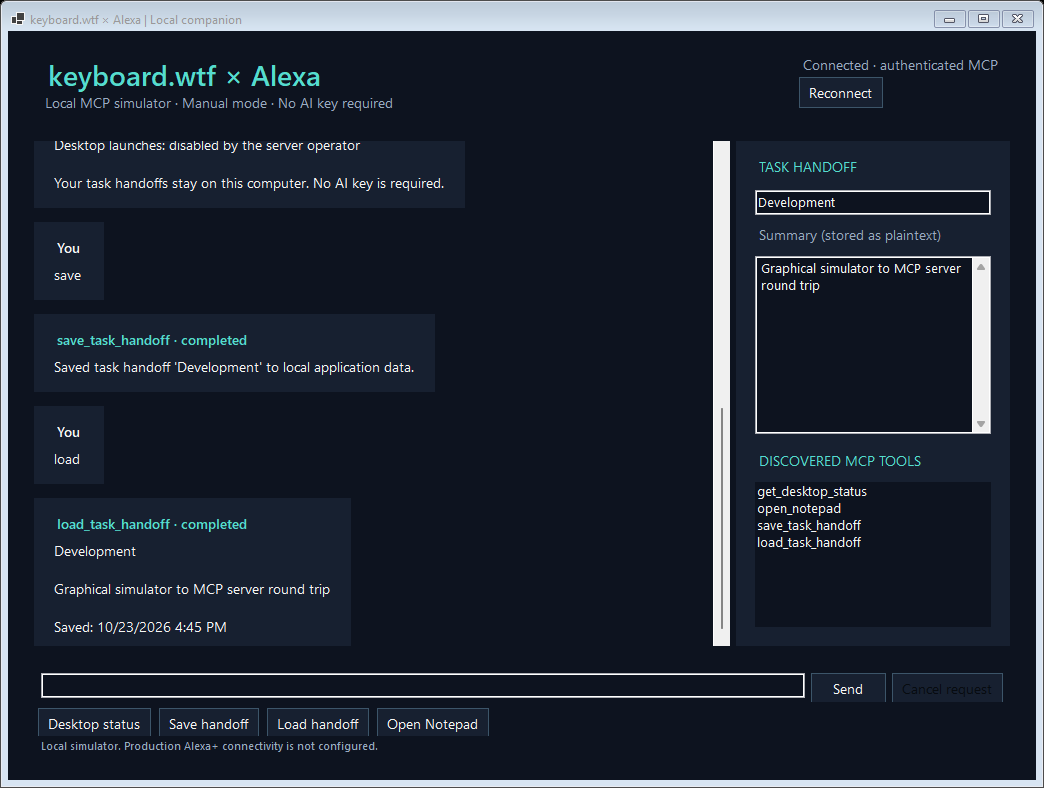
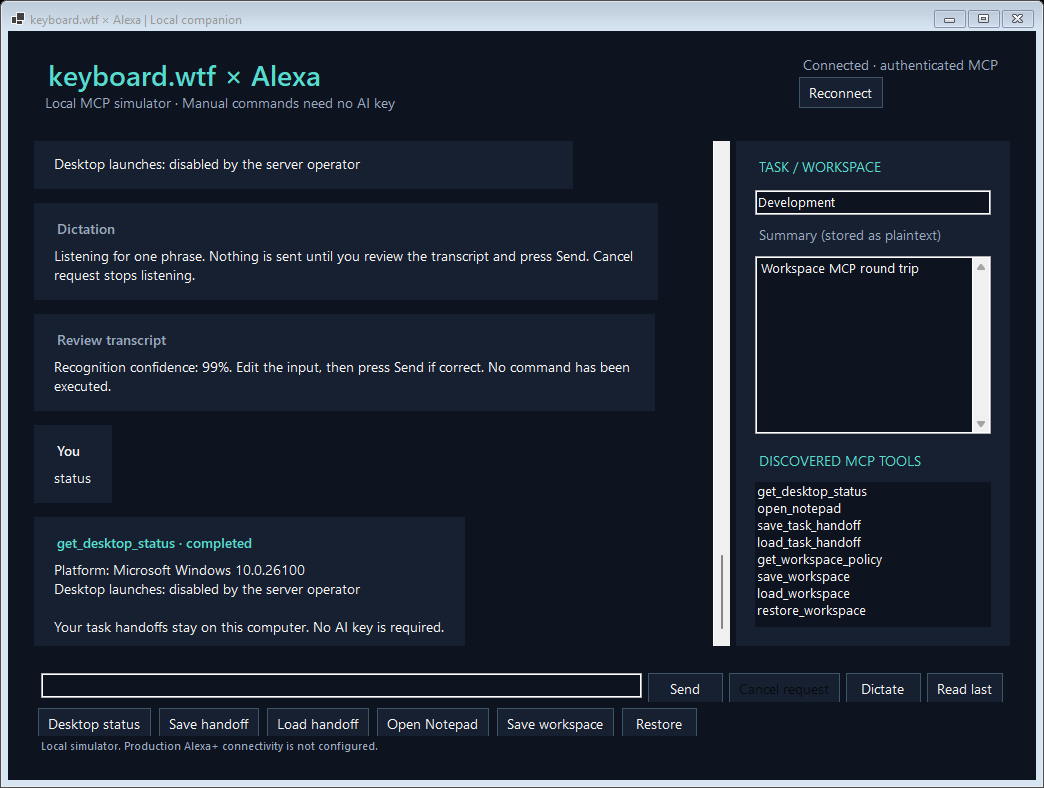
Record native MCP evidence, current renders and remote Alexa integration boundary

diff --git a/docs/PROGRESS.md b/docs/PROGRESS.md
@@ -2,45 +2,39 @@
 
 ## Current checkpoint — 2026-10-24 (Asia/Calcutta)
 
-- Work is integrated into `codex/alexa-plus-completion` by PR #3, merge commit `15122e6c545b6de8c7e0ec514e16c6c6f6ec6992`.
-- Functional head `6d2f6089fa030d905210af287fc7ea0a24e5427a` passed Windows CI [39991652332](https://github.com/UnknownGod2011/Alexa-keyboard.wtf/actions/runs/39991652332): all builds, raw MCP 2025-11-25, SDK calls, source/published graphical controls, compact layout, **52** regressions, strict binding under conflicting host configuration, script parsing, extracted-package launcher, foreign-listener refusal, owner-aware shutdown and preview packaging.
-- Local preview works without an AI key. The genuine control renders were visually inspected. A prior preview archive was inspected: required launch/runtime/notice files were present, dependency metadata was non-empty, and no credential files were found.
-- `main` remains unchanged and PR #2 stays draft. Production keyboard.wtf was read only. This is not a final release or verified Alexa cloud integration.
-- A replacement task was created in this Work conversation every **305 minutes (5 hours 5 minutes)**; the previous normal-chat task is paused. The prompt requests at least 60 minutes of substantive engineering when execution budgets permit; wall-clock minimums are not a platform guarantee.
-- **Workspace restoration integrated:** PR #4 merged to development as `f0f6c5ab3a7abeab510dbc27a3bd25e37d05a4ad`. Functional `487f9a12aea23e839ad8134a87aeaf0e4bc2b7c4` passed [40014939575](https://github.com/UnknownGod2011/Alexa-keyboard.wtf/actions/runs/40014939575): **86** regressions, source/published raw+SDK MCP, GUI save dialog/load/denied restore, compact bounds and launcher/package validation. Actual dialog and compact renders were inspected. Root and folder/Notepad action scope are documented.
-- **Optional AI integrated:** PR #5 merged to development as `60be1c33f583d937cde2291ce2827f8ae7b5c5f9`. Functional `4f1f166aeb2489ae3e5a188785bcceaf085e748f` passed [40016028105](https://github.com/UnknownGod2011/Alexa-keyboard.wtf/actions/runs/40016028105), including **114** regressions/HTTP contracts, source/published MCP+GUI and bridge-independent chat-only console. Only explicit ask prompts/history are sent; AI has no desktop-tool capability. No credential-backed cloud request has been made.
-- **Active implementation:** `codex/optional-windows-voice` adds Dictate/Read last. Transcript review and explicit Send are separate; native audio starts only after a button click. Hosted checks use a recording adapter; real microphone/speaker behavior is unverified. Initial `34750076be2e12f842f3e5794d7fe43d478ea540` awaits CI.
-- **External verification still needed:** real end-user Windows Notepad visibility/consent UX and Windows 10/11 desktop behavior. Hosted graphical control tests do not prove these.
-- Credential-backed AI verification, real Windows voice/desktop validation and actual remote Alexa+ pairing/connectivity remain unfinished. See RELEASE_READINESS.md.
+Target: `UnknownGod2011/Alexa-keyboard.wtf`. Production `UnknownGod2011/keyboard.wtf` is strictly read-only. Do not restart the architecture or force-push.
 
-## Engineering history
+## Implemented and verified
 
-2026-10-23: Initialized an isolated Alexa development branch and committed the initial MCP bridge. The original keyboard.wtf repository remains read-only.
+- Official SDK 2.3.0 Streamable HTTP bridge plus independent raw MCP 2025-11-25 checks.
+- Per-launch local bearer, lease/rotation, fixed loopback binding despite inherited host configuration, Host/Origin checks and owned-process shutdown.
+- Operator opt-in plus fresh, expiring, single-request local-console approval. MCP arguments cannot approve actions. Denial, replay, cancellation and closed-input tests pass.
+- Validated/atomic handoffs and versioned approved-root workspaces. Traversal, junctions/network roots, changed roots, concurrent edits during approval and partial/cancelled results are covered.
+- Shared SDK client, console and Windows Forms clients; actual source/published GUI handlers, workspace dialog and compact bounds verified.
+- Optional explicitly configured AI text: bounded ask/history, reset, deadlines, no retries/redirects, redacted errors and no desktop-tool capability. Fake HTTP tests pass; real account use remains unverified.
+- Optional Dictate/Read last controls: no audio starts on launch, transcripts require review and Send, cancellation/errors preserve manual operation. Hosted voice UI uses a recording adapter. Installed native speech generated valid WAV without speaker playback.
+- Preview package and extracted launcher tested from a path with spaces; foreign-listener refusal, owned cleanup, script parsing and dependency notices verified.
 
-2026-10-23: Added an independent .NET no-key console simulator using the official MCP SDK, plus a Windows CI integration test that starts the actual bridge and exercises it through Streamable HTTP.
+## Commits and evidence
 
-2026-10-23: First integration run failed because the expected PascalCase tool names did not match the SDK's snake_case discovery. Corrected the client calls, pinned tool names, and verified the real MCP smoke test passed in Windows GitHub Actions run `39977136792` for commit `c9c8a4a`. Confirmed status, save/load, invalid-name rejection, unknown-tool rejection, and Host/Origin checks.
+- PR #3 foundation merged as `15122e6c545b6de8c7e0ec514e16c6c6f6ec6992`.
+- PR #4 workspaces merged as `f0f6c5ab3a7abeab510dbc27a3bd25e37d05a4ad`; CI [40014939575](https://github.com/UnknownGod2011/Alexa-keyboard.wtf/actions/runs/40014939575), 86 checks.
+- PR #5 optional AI merged as `60be1c33f583d937cde2291ce2827f8ae7b5c5f9`; CI [40016028105](https://github.com/UnknownGod2011/Alexa-keyboard.wtf/actions/runs/40016028105), 114 checks.
+- PR #6 voice/native probe merged as `0dc8202c9697f5042805dd182e2240a629f920fc`; CI [40016870841](https://github.com/UnknownGod2011/Alexa-keyboard.wtf/actions/runs/40016870841).
+- Active PR #7 adds the exact flagship command and actual MCP-to-native workspace validation. Functional `f394c08c539c66e66c868a34b23ff2412a552650` passed [40018157021](https://github.com/UnknownGod2011/Alexa-keyboard.wtf/actions/runs/40018157021): **115 checks**, raw/SDK MCP, source/published GUI, scripts, packaging and extracted launcher.
+- Native fixture saved the workspace through MCP, denied one request, supplied a different fresh simulated local-console approval, then observed Explorer displaying the exact approved directory and an owned visible Notepad window. The real approval/tool/launch implementations are used; human console interaction is not simulated as a verified user result.
+- Actual Notepad and form/dialog renders were visually inspected. Downloaded preview audit: 89 files, all required launch/runtime files, 19 dependency entries including System.Speech MIT, no credential files. Current source credential-pattern scan found no matches.
 
-Remaining: authenticated local MCP access, server-enforced side-effect authorization, accurate tool errors, Windows graphical simulator, verified desktop UI interaction, production adapters, and release readiness. Do not claim actual Alexa+ cloud integration.
+## Integration and next work
 
-2026-10-23: Added per-server-start random 256-bit bearer authentication to the loopback MCP endpoint, current-user token discovery for the no-key simulator, a single-instance file lease, and smoke probes for unauthorized MCP GET/POST and invalid tokens. Initial CI found an unsupported Directory.SetUnixFileMode API; corrected to File.SetUnixFileMode. Windows CI run `39985387204` passed both builds and the real SDK protocol smoke, including missing/invalid token rejection. No interactive GUI was tested. Read-only inspection of production JarvisPermissionPolicy and AppResolverService identified reusable permission/tool patterns for future safe adapter work.
+PR #7 documentation/image refresh is being integrated into development. PR #2 is the default-branch integration PR; recheck its current state rather than assuming it is still draft. The tested local development preview is eligible for default-branch integration after its exact head and integration CI pass. This is not a production Alexa+ release or a claim that optional hardware/account verification passed.
 
-2026-10-23: Added server-owned default-deny desktop-launch policy. `open_notepad` now refuses requests unless the server operator opts in with `ALEXA_ALLOW_DESKTOP_ACTIONS=1`; status reports the policy. Windows CI run `39985829707` passed both .NET builds and real MCP smoke tests including a denied Notepad call, authenticated protocol round-trip, Host/Origin checks, and invalid-token rejection. No interactive desktop GUI action was attempted.
+Remaining external evidence: end-user Windows 10/11 consent/high-DPI/device behavior; actual microphone recognition, audible output and cleanup; credential-backed AI use. Use WINDOWS_MANUAL_TEST.md, record concrete observations and preserve unverified states. Actual Alexa+ connectivity is a separate, undeployed capability; requirements/design/blockers are in ALEXA_REMOTE_INTEGRATION.md. Do not provision paid services, change external account permissions or expose the local bridge without authorization.
 
-2026-10-23: Interactive Work session added server-console approval for each Notepad request, headless denial, approval expiry, cancellation before launch, absolute Windows-system executable resolution, explicit MCP tool errors, and extracted validated/atomic handoff storage. Windows CI run 39986017503 passed both builds, the real MCP smoke, and the new regression executable on commit 2603b3a. No visible Windows action was attempted.
+When these are the only remaining blockers, do not invent more features or repeat blocked environment investigations. Inspect new evidence, fix concrete defects and keep the release status honest. Broader production release still requires external verification.
 
-2026-10-23: Reconciled the scheduled worker's operator opt-in policy (preserved before per-action approval) and added a shared authenticated MCP client plus a Windows Forms graphical simulator with live tool discovery, handoff fields, action history, cancellation, and reconnect. Both simulators use real MCP. GUI build and combined policy validation are pending CI at this checkpoint; visual behavior remains unverified.
+## Scheduled continuation
 
-2026-10-23: Windows CI run 39987052287 passed shared-client/graphical builds, the combined operator policy plus per-action approval smoke, and regression checks on a6372f3. Added independent raw HTTP checks for MCP 2025-11-25, schema/lifecycle/concurrency/errors; isolated runtime credentials as well as handoff data; added authenticated graceful shutdown, guarded Windows launcher and framework-dependent preview packaging. These newest lifecycle/package changes await CI. No interactive Windows test is claimed.
+The Work task recurs every **305 minutes (5 hours 5 minutes)** in this conversation; the former normal-chat task is paused. The prompt requests at least 60 minutes of substantive engineering when execution budgets permit. No platform-enforced minimum duration is claimed. Read this file, IMPLEMENTATION_PLAN.md, RELEASE_READINESS.md, latest refs/PRs/CI and active workers before each run. GitHub is the durable source of truth; local folders may disappear.
 
-2026-10-23: Windows CI 39987908464 passed raw MCP 2025-11-25, real SDK calls, lifecycle/authentication checks, 40 regression checks and preview packaging on 3e048c4. Added hosted Windows graphical-control smoke and a real control-render capture for visual inspection; this new UI smoke awaits CI.
-
-2026-10-23: Hosted graphical MCP controls passed in Windows CI 39988366057 on 371cb2f. Inspected the actual control-render image and improved status/handoff presentation, task-name readability and loaded-summary restoration. Added compact-window checks, published-package tests, extracted-folder-with-spaces launcher tests, script parsing and third-party package notices/inventory. New follow-up CI pending.
-
-2026-10-23: Windows CI 39989264504 passed source/published raw protocol, SDK, graphical and compact-layout tests; 40 regressions; PowerShell parsing; extracted-package-with-spaces launcher cleanup; and preview publication on fe94946. Visually inspected both source control renders. Final audit strengthened shutdown ownership matching, added a foreign-listener refusal test, fixed request deadlines while console users type, and bounded graphical cleanup. Follow-up CI pending.
-
-2026-10-23: Windows CI 39990145822 passed owner-process shutdown checks, foreign-listener refusal, source/published GUI and protocol checks, regression checks, and package creation on 43b7a33. Approval-lifecycle review found that an interactive console reaching EOF should immediately deny pending and future actions; fixed it and added direct service checks for fresh/consumed/expired/cancelled challenges, concurrency and EOF. Current follow-up CI pending.
-
-2026-10-23: Windows CI 39990718911 passed the direct approval lifecycle follow-up on b6d850f, including closed-input denial. Final binding review identified that UseUrls alone can be overridden by inherited Kestrel endpoint configuration. Replaced the endpoint loader with explicit loopback listening and added a smoke assertion under conflicting benign URL/Kestrel settings. Awaiting final CI before integration into the development branch.
-
-2026-10-23: Compatibility audit preserved Windows case-insensitive lookup of an existing handoff while retaining stored-record identity validation. Added a Windows regression assertion; final validation pending.
+Detailed chronological evidence is in TEST_RESULTS.md.

diff --git a/docs/RELEASE_READINESS.md b/docs/RELEASE_READINESS.md
@@ -1,35 +1,33 @@
 # Release readiness
 
-This is a development preview, not a verified release.
+Milestone: independently runnable **local Windows MCP development preview**. The core preview has implementation and Windows evidence sufficient for integration into the default branch after the exact integration head passes CI. This is not general-availability certification or production Alexa+ connectivity.
 
 | Criterion | Evidence / state |
 | --- | --- |
-| Production repository untouched | Read-only reference inspection only; all writes target Alexa repository |
-| Real official-SDK MCP initialize/discover/call | Passed Windows CI |
-| No AI key required | Passed protocol smoke |
-| Local authentication | Passed Windows CI |
-| Default-denied launches | Passed scheduled-worker and combined policy CI |
-| Per-action host approval, cancellation, truthful errors | Passed direct approval lifecycle, recording-adapter and headless MCP checks |
-| Combined policy and graphical simulator build | Passed Windows CI 39987052287 |
-| Hosted graphical control events/render | Passed CI 39988366057; captured control render visually inspected |
-| Visible simulator behavior | Interactive end-user desktop still unverified |
-| Actual Notepad window | Unverified; interactive Windows required |
-| Fresh extracted preview package | Passed CI 39989264504, including path with spaces, actual MCP call and cleanup |
-| Optional AI text | Contract/no-key UI tests passed CI 40016028105; credential-backed request unverified |
-| Voice | Explicit Dictate/Read last implementation under validation; actual microphone/speaker behavior unverified |
-| Production Alexa+ connectivity | Not implemented or verified |
-| Fixed endpoint under inherited configuration | Passed CI 39991652332 |
-| Approved saved project workspaces | Passed CI 40014939575; actual Explorer/Notepad windows still unverified |
-| Regression checks | 114 passed in Windows CI 40016028105 |
-| Ready for main / public release | No; remaining gates must be completed |
+| Production repository preserved | Read-only reference inspection; writes target Alexa repository only |
+| Official SDK and Streamable HTTP | SDK 2.3.0; independent raw MCP 2025-11-25 and SDK calls pass |
+| No-key meaningful workflow | Save/restore via actual MCP; native Explorer approved-folder and Notepad windows observed |
+| Local security | Bearer lease/rotation, Host/Origin, fixed binding and owned shutdown pass |
+| Side-effect policy | Operator opt-in, fresh local challenge, denial/replay/expiry/cancel/EOF checks pass |
+| Workspace safety | Root/path/version/identity/atomicity and immutable-consent tests pass |
+| Simulator uses MCP | Source/published GUI and console exercise actual SDK transport |
+| GUI controls and layout | Actual button/dialog handlers and standard/compact bounds pass; real renders inspected |
+| Native Windows action | CI 40018157021 observed exact Explorer directory and owned visible Notepad after MCP restore |
+| Approval evidence scope | Native fixture simulates local console replies using the real approval service; human UX remains unverified |
+| Optional AI | Fake HTTP contracts and no-key recovery pass; externally configured key/model; actual account unverified |
+| Optional speech | Recording-adapter UI tests pass; native synthesis generates WAV; microphone/speaker behavior unverified |
+| Builds and regression checks | 115 checks and all Windows pipeline stages pass on functional f394c08 |
+| Fresh checkout / extracted preview | Windows checkout/restore/build and extracted launcher, including path with spaces, pass |
+| Package/licenses/secrets | Downloaded 89-file preview inspected; 19 package entries, required runtimes/notices and no credential files |
+| Default branch | Pending PR #2 integration and verification; check current GitHub state |
+| Production Alexa+ | Not implemented/deployed/verified; separate researched design and account/hosting blockers |
+| Broad production release | Not claimed; external verification below remains |
 
-Do not infer visible Windows correctness from hosted CI. See WINDOWS_MANUAL_TEST.md.
+## External verification still required
 
-## Remaining work by priority
+- Run WINDOWS_MANUAL_TEST.md on supported end-user Windows 10/11: actual console consent, scaling, restart/cancellation and cleanup.
+- Verify microphone recognition, audible read-aloud and hardware release on cancellation/close. A generated WAV or recording adapter does not prove these.
+- Verify optional AI with the user's own configured account without logging keys. Fake HTTP is not proof of provider availability/account access.
+- If pursuing remote Alexa+, authorize a separate hosting/OAuth/pairing implementation and complete real linking/simulator/device checks. Do not tunnel the current loopback bearer endpoint.
 
-1. Verify real end-user Windows desktop behavior, including Notepad visibility, consent UX, cancellation, restart and shutdown. Hosted control renders are not a substitute.
-2. Verify real workspace folder/Notepad visibility and consent UX. Versioned approved-folder restoration is implemented; it does not restore editor tabs or arbitrary application state.
-3. Complete voice build/control validation and real Windows microphone/speaker checks; verify configured AI with an actual account. Preserve no-key manual operation.
-4. Design and verify actual remote Alexa+ registration, authentication and pairing if external access becomes available. Localhost is not cloud connectivity.
-
-The current deliverable can be integrated into the development branch as a tested local preview. These remaining gates prevent claiming a final release or merging as a finished product into main.
+These states must remain visible in README and reports. Default-branch integration of the tested local preview does not close them or authorize a production-ready claim. Disable the recurring engineering task only when the user's intended acceptance scope is genuinely satisfied or explicitly concluded.

diff --git a/docs/ALEXA_REMOTE_INTEGRATION.md b/docs/ALEXA_REMOTE_INTEGRATION.md
@@ -1,0 +1,43 @@
+# Remote Alexa+ integration boundary
+
+Status: researched design only. No relay, OAuth service, account linking, add-on registration or production Alexa connection has been implemented or deployed. The runnable implementation remains a local MCP companion and simulator.
+
+## Verified external requirements
+
+Reviewed 2026-10-24 (Asia/Calcutta):
+
+- Amazon's [MCP QuickStart](https://developer.amazon.com/docs/alexaplus/add-ons/mcp-toolkit-quickstart) requires Streamable HTTP and a remote server URL. Its current checklist specifies protected-resource/authorization-server metadata, PKCE S256, resource-bound bearer requests and a round-trip query latency below 500 ms. It currently excludes WWW-Authenticate in 401 responses. Registration uses authenticated Alexa developer tooling.
+- [MCP authentication](https://developer.amazon.com/docs/alexaplus/add-ons/mcp-toolkit-authentication) distinguishes service credentials for initialization/discovery from user authorization for personalized tool execution.
+- [Account linking](https://developer.amazon.com/docs/alexaplus/add-ons/mcp-toolkit-account-linking) applies when tools use private user data or perform writes for a customer. It documents static client registration, authorization-code/PKCE flow, refresh tokens and registered Alexa redirect URIs.
+
+These requirements do not establish that this repository is registered, eligible, certified or connected. Recheck the official requirements when implementing an actual deployment.
+
+## Proposed architecture
+
+```mermaid
+flowchart TD
+    A[Alexa MCP client] -->|OAuth bearer over HTTPS| G[Remote MCP gateway]
+    O[Authorization service] -->|User and service grants| G
+    D[Paired Windows agent] -->|Device-authenticated outbound connection| G
+    D -->|Same-user local MCP| B[Loopback bridge]
+    B -->|Fresh local approval| W[Approved Windows actions]
+```
+
+This is a proposed separation of trust boundaries, not a description of deployed components. The gateway would expose a deliberately smaller remote surface than the local bridge. The Windows agent would initiate its connection; no inbound desktop port or direct tunnel to port 32178 is needed.
+
+## Required controls before implementation can be called connected
+
+1. Bind an explicitly paired device to an authenticated service user. Short-lived pairing challenges must be confirmed on that PC, expire and be revocable. Keep device credentials separate from the per-launch local MCP bearer and from the customer's OAuth tokens.
+2. Separate service-only discovery from user-specific execution. Proposed user scopes might include workspace read/restore; service credentials must never retrieve root paths, summaries or execute tools. Validate token issuer, audience/resource, expiry and scopes on every request.
+3. Route only versioned, schema-validated requests for known saved-workspace names to the paired device. Never carry arbitrary shell strings, executable paths, root configuration or approval decisions from the cloud. Recheck device ownership, root binding and host policy immediately before execution.
+4. Keep the current local operator opt-in and fresh approval for the exact saved action bundle. A remote model, gateway credential or pairing grant must not satisfy that local approval. Report denied, expired, offline, cancelled, partial and unverified outcomes accurately.
+5. Bind request IDs to user/device/action, reject replay and retain a bounded outcome record so reconnects cannot duplicate a launch. An offline PC must not silently execute an old queued command later. Retrying a side effect requires an explicit policy and visible status.
+6. Design fast request acceptance and explicit job-status retrieval if approval exceeds the remote latency budget. Measure the real Alexa client behavior before selecting that contract; the current synchronous local tool is not proven to meet remote latency requirements.
+7. Keep the local authentication behavior intact. Any Alexa-specific metadata/error behavior belongs in a separately tested gateway profile. The local bearer endpoint is not an OAuth server and is not an Alexa account-linking implementation.
+8. Minimize telemetry and user data in transit/logs. Never upload the local MCP token, keys, arbitrary file contents or implicit desktop context. Document data retention and provide disconnect/revocation controls.
+
+## External blockers and next evidence
+
+Actual deployment requires a chosen authorized hosting/OAuth service, user-approved external account configuration, Alexa developer authentication/registration, privacy/terms URLs and device pairing. None is available as a verified project integration here. Do not provision paid infrastructure, change external account permissions or expose the desktop endpoint on the strength of this design.
+
+Before claiming connectivity, test wrong-user/device routing, service-token execution denial, expired/revoked tokens, replay/reconnect, PC offline, local-deny/cancel and partial-action results; then complete real account linking and Alexa simulator/device calls. A local SDK smoke, health response or architecture diagram is insufficient evidence.

diff --git a/docs/IMPLEMENTATION_PLAN.md b/docs/IMPLEMENTATION_PLAN.md
@@ -1,21 +1,22 @@
 # Implementation plan
 
-Production UnknownGod2011/keyboard.wtf is strictly read-only. All writes belong to this repository. Continue from the development branch and current checkpoint in PROGRESS.md; do not rebuild the architecture from scratch.
+Production UnknownGod2011/keyboard.wtf is strictly read-only. All writes belong to Alexa-keyboard.wtf. Continue the current development state; never recreate the project from scratch.
 
-## Verified foundation
+## Completed local implementation
 
-- Official-SDK Streamable HTTP bridge; independent raw client verified MCP 2025-11-25.
-- Per-start credential, same-user discovery, token lease/rotation, fixed loopback endpoint independent of inherited configuration.
-- Operator opt-in plus expiring per-request host approval; challenge replay, cancellation and closed-input denial tested.
-- Truthful MCP errors, validated atomic handoff storage and cancellation before commits/launch.
-- Shared authenticated client; console and Windows Forms simulators; source and published GUI-control tests and inspected renders.
-- Windows preview package, dependency notices/inventory, extracted launcher from a path with spaces, ownership-aware cleanup and 52 regression checks.
+The authenticated fixed-loopback MCP bridge, no-key GUI/console, approved workspaces, exact Development restore command, optional text AI and optional review-before-Send voice controls are implemented. Functional f394c08 passed Windows CI 40018157021 with 115 regressions, independent protocol tests, source/published GUI checks and actual MCP-triggered Explorer/Notepad window observation. See PROGRESS.md for commit/PR references.
 
-## Next implementation priorities
+## Current integration work
 
-1. Complete and verify `codex/optional-windows-voice`. Workspaces and optional text AI are integrated by PRs #4/#5, with 114 passing regression/HTTP checks. Keep dictation transcript review separate from Send, microphone/speech disabled until explicit clicks, cancellation and typed fallback. Hosted adapters cannot establish actual audio hardware behavior.
-2. Perform WINDOWS_MANUAL_TEST.md on an actual supported end-user Windows desktop when available: consent, Notepad visibility, cancellation, restart, high-DPI behavior and shutdown.
-3. Complete optional AI credential-backed verification and add optional voice only while the deterministic no-key mode remains usable. Never commit keys or present fabricated model output.
-4. Review all release gates and fresh Windows usability before promoting a finished application to main. Production Alexa+ requires separate authenticated registration/pairing/networking and real external verification.
+1. Finish PR #7's documentation/render checkpoint, inspect its diff and verify exact-head CI.
+2. Integrate into development without overwriting concurrent commits; inspect integration CI.
+3. Review PR #2 against main: source, runtime instructions, license/notices, credential scan, workflow and package evidence. Promote the verified local preview to the default branch when those exact-head gates pass. Keep preview status and external limitations explicit.
+4. Verify main contains the intended files and that its Windows workflow succeeds. Update the durable checkpoint and recurring task context with actual refs/results.
 
-If an interactive desktop is unavailable, record the blocker once and continue independent workspace/provider engineering. Hosted control rendering is not a substitute for real end-user Notepad verification. Preserve concurrent changes, reconcile the latest branch head before writing, and never force-push.
+## Remaining validation and optional remote capability
+
+Run WINDOWS_MANUAL_TEST.md when a real supported end-user Windows desktop/audio configuration is available. Actual hardware and human consent remain distinct from hosted control/native-window evidence. Verify optional AI with an authorized account only when credentials and intended API use are available.
+
+Production Alexa+ is not established by local MCP. The researched requirements, proposed separate gateway/device pairing design and missing account/hosting approvals are in ALEXA_REMOTE_INTEGRATION.md. Do not create paid resources, change accounts or expose the local endpoint without authorization.
+
+If only external evidence is missing, record the exact blocker once, retain the unverified gate and avoid speculative feature expansion or repeated failing environment probes. Fix new concrete defects and incorporate new test evidence as it becomes available.

diff --git a/README.md b/README.md
@@ -18,7 +18,7 @@ A standalone Windows companion that exposes a small set of desktop capabilities 
 
 ![Windows companion control render](docs/images/companion-windows.png)
 
-*Actual Windows control render from CI after genuine MCP status/save/load calls. This is not proof of end-user desktop or Alexa cloud connectivity.*
+*Actual Windows control render from CI after genuine MCP calls. Speech transcripts in this test use a recording adapter; this does not prove microphone, end-user desktop or Alexa cloud behavior.*
 
 The original [keyboard.wtf](https://github.com/UnknownGod2011/keyboard.wtf) application is separate and is not required.
 
@@ -171,7 +171,7 @@ The regression executable tests permission denials, cancellation before side eff
 
 An independent Python HTTP client additionally checks MCP `2025-11-25` negotiation, initialization lifecycle, argument schemas, concurrent calls, and protocol errors. Startup tests reject a second server without rotating its live token; shutdown tests require authentication and verify credential cleanup. Runtime and handoff directories are isolated during smoke tests. Windows CI also exercises published DLLs and the extracted launcher from a directory with spaces. It verifies that the launcher refuses a foreign listener and that shutdown rejects an owner-process mismatch.
 
-Windows CI exercises graphical controls over MCP and captures actual control renders at standard and compact sizes. An opt-in isolated native fixture also calls the real workspace tools through the SDK, supplies test-only local-console denial/approval, launches actual Windows Notepad, observes its owned visible window and captures that window. The production host is separately tested for headless denial; no network approval bypass is added. Native synthesis produces WAV audio without using a microphone or speakers. These checks do not establish human consent UX or end-user audio hardware behavior. See [test evidence](docs/TEST_RESULTS.md) and [interactive Windows checks](docs/WINDOWS_MANUAL_TEST.md).
+Windows CI exercises graphical controls over MCP and captures actual control renders at standard and compact sizes. An opt-in isolated native fixture also calls the real workspace tools through the SDK, supplies test-only local-console denial/approval, launches actual Windows Notepad, observes its owned visible window and captures that window. The production host is separately tested for headless denial; no network approval bypass is added. Native synthesis produces WAV audio without using a microphone or speakers. These checks do not establish human consent UX or end-user audio hardware behavior. The [native Notepad capture](docs/images/notepad-ci.png) is from an actual owned window on the Windows runner. See [test evidence](docs/TEST_RESULTS.md) and [interactive Windows checks](docs/WINDOWS_MANUAL_TEST.md).
 
 ## Security and privacy
 
@@ -207,7 +207,7 @@ Choose **Read last** to read up to 500 characters from the latest displayed resp
 
 Hosted GUI tests use a recording voice adapter to verify button routing, transcript review, cancellation and manual-mode recovery. Actual microphone recognition, audible output and hardware cleanup remain unverified until the interactive Windows procedure is run. The adapter uses Microsoft's [System.Speech](https://www.nuget.org/packages/System.Speech/10.0.13).
 
-Production Alexa+ registration, authentication, networking and end-to-end connectivity remain unfinished. The local simulator does not claim Amazon cloud access.
+Production Alexa+ registration, authentication, networking and end-to-end connectivity remain unfinished. The local simulator does not claim Amazon cloud access. See the [remote integration boundary](docs/ALEXA_REMOTE_INTEGRATION.md) for researched requirements, proposed pairing design and external blockers.
 
 ## Troubleshooting
 

diff --git a/docs/TEST_RESULTS.md b/docs/TEST_RESULTS.md
@@ -160,3 +160,14 @@ No actual end-user Notepad visibility, Windows 10/11 interactive desktop or prod
 - **114** checks include request arguments/auth, no tool capability, explicit prompt routing, history/reset/bounds, redacted errors, failed/cancelled history isolation, partial/refusal parsing, malformed/empty/oversized responses with and without Content-Length, no retries and in-flight cancellation. These use an in-memory HTTP adapter, not a paid provider request.
 - Source/published real MCP and GUI tests passed with cloud AI explicitly disabled. Disabled-AI status/errors preserved the authenticated MCP session. Standalone chat-only console worked before bridge startup, with no bridge credentials. Package, script and launcher checks passed.
 - PR #5 merged to development at `60be1c33f583d937cde2291ce2827f8ae7b5c5f9`. Credential-backed provider behavior remains unverified.
+
+## Native workspace restoration through MCP
+
+- Functional `f394c08c539c66e66c868a34b23ff2412a552650`; Windows [40018157021](https://github.com/UnknownGod2011/Alexa-keyboard.wtf/actions/runs/40018157021), **success**.
+- **115** regression/HTTP checks and all source/published protocol, GUI, packaging, script and extracted-launcher checks passed.
+- An isolated authenticated MCP fixture uses production tool/approval/launch implementations with explicitly simulated local-console input. It saved Development through MCP, denied a restore, checked no Notepad appeared, then accepted a different fresh approval.
+- Real Windows Explorer displayed the exact approved directory; the exact launcher-observed Notepad process owned a visible 768x519 top-level window. Cleanup matches recorded PID/start time and the exact Explorer path/window, not arbitrary processes.
+- Installed native speech produced 129436-byte WAV audio without speaker playback. No microphone was opened.
+- The exact flagship phrase selects Development independently of an edited name in the GUI; both clients use the shared manual parser. Real standard/compact/dialog renders and the owned Notepad capture were visually inspected.
+- A downloaded preview was inspected: 89 files, required launch/runtime files, 19 dependency entries including System.Speech/10.0.13 MIT and no credential files. Source credential-pattern scan and Python syntax/diff checks passed.
+- This establishes actual native action evidence on the hosted runner. It does not establish human consent UX, end-user Windows 10/11 hardware, live AI account access or Alexa production connectivity.
